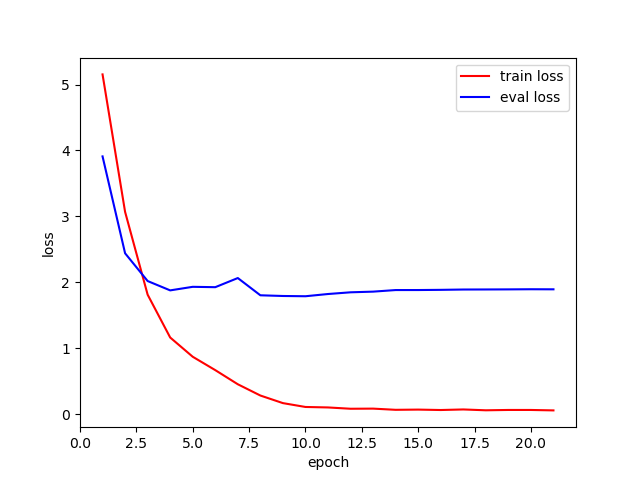
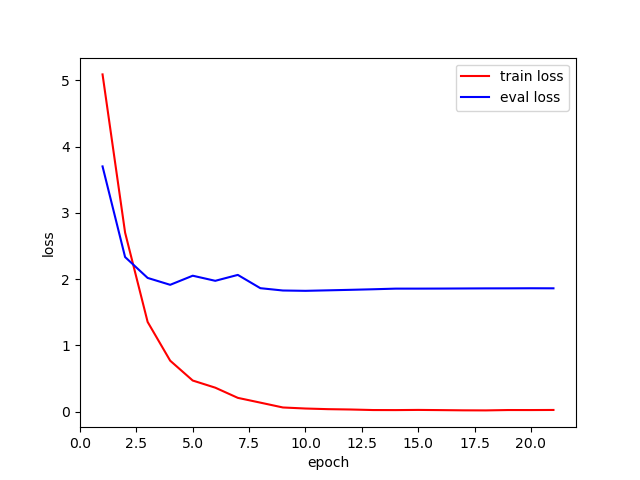
1.水平翻轉 + jitter staturation 0.2 + normalize

diff --git a/hw2.py b/hw2.py
@@ -46,7 +46,8 @@ data_transforms = {
             transforms.Resize((224,224) ),
             ########在此區塊填入圖像轉換方法########
             transforms.RandomHorizontalFlip(p=0.5),
-            transforms.RandomVerticalFlip(p=0.5),
+            transforms.transforms.ColorJitter(saturation=0.2),
+            # transforms.RandomVerticalFlip(p=0.5),
             ########################################
             transforms.ToTensor(),
             transforms.Normalize((0.485, 0.456, 0.406), (0.229, 0.224, 0.225)),
